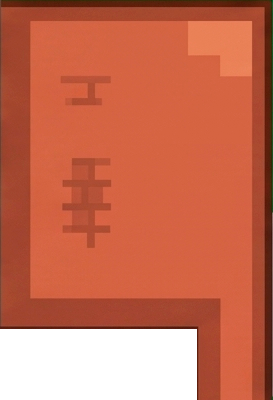
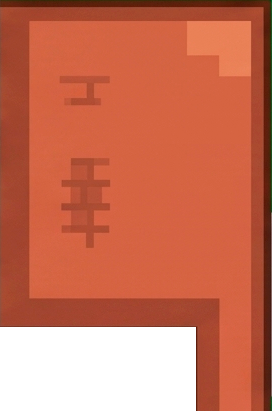
arrumando o teto-inicio

diff --git a/Estilo/jogo.css b/Estilo/jogo.css
@@ -1,39 +1,39 @@
 :root {
-    --bg: #071522;
-    --senac-blue: #004A8D;
-    --senac-blue-deep: #00284a;
-    --panel: rgba(0,32,58,0.88);
-    --panel-solid: #0b2036;
-    --panel-2: rgba(0,42,74,0.9);
-    --senac-orange: #F7941D;
-    --senac-orange-light: #FDC180;
-    --pixel-shadow: #00101c;
-    --text: #eef3f8;
-    --text-dim: #9fb8d1;
-    --font-pixel: 'Press Start 2P', monospace;
-    --font-body: 'Pixelify Sans', monospace;
+  --bg: #071522;
+  --senac-blue: #004a8d;
+  --senac-blue-deep: #00284a;
+  --panel: rgba(0, 32, 58, 0.88);
+  --panel-solid: #0b2036;
+  --panel-2: rgba(0, 42, 74, 0.9);
+  --senac-orange: #f7941d;
+  --senac-orange-light: #fdc180;
+  --pixel-shadow: #00101c;
+  --text: #eef3f8;
+  --text-dim: #9fb8d1;
+  --font-pixel: "Press Start 2P", monospace;
+  --font-body: "Pixelify Sans", monospace;
 }
 
 * {
-    margin: 0;
-    padding: 0;
-    box-sizing: border-box;
+  margin: 0;
+  padding: 0;
+  box-sizing: border-box;
 }
 
 body {
-    height: 100vh;
-    overflow-y: hidden;
+  height: 100vh;
+  overflow-y: hidden;
 }
 
 #fundo {
-    position: fixed;
-    top: 0;
-    left: 0;
-    width: 100%;
-    height: 100%;
-    object-fit: cover;
-    z-index: -1;
-    opacity: 0.9;
+  position: fixed;
+  top: 0;
+  left: 0;
+  width: 100%;
+  height: 100%;
+  object-fit: cover;
+  z-index: -1;
+  opacity: 0.9;
 }
 
 #carro {
@@ -43,7 +43,7 @@ body {
   top: 0;
   right: 33.5%;
   /* Caminho para a sua imagem */
-  
+
   background-repeat: no-repeat;
   background-size: 512px;
 
@@ -51,7 +51,6 @@ body {
   animation: animarSprite 1s steps(4) infinite,
     carroAndar 8s infinite ease-in-out;
   z-index: -1;
-  
 }
 
 #carro2 {
@@ -99,71 +98,70 @@ body {
   }
 }
 
-#teto-inicio{
+#teto-inicio {
   background: center/contain no-repeat url("../Imagem/cenario/teto-inicio.png");
   width: 190px;
   height: 400px;
   position: fixed;
-  top: 33%;
+  top: 33.4%;
   right: 1078px;
   opacity: 1;
-  
 }
 
 h1 {
-    font-size: 4em;
-    margin-block-start: 0.67em;
-    margin-block-end: 0.67em;
-    margin-inline-start: 0px;
-    margin-inline-end: 0px;
-    unicode-bidi: isolate;
-    font-family: var(--font-pixel);
-    color: var(--text);
-    text-shadow: 3px 5px 0px black;
+  font-size: 4em;
+  margin-block-start: 0.67em;
+  margin-block-end: 0.67em;
+  margin-inline-start: 0px;
+  margin-inline-end: 0px;
+  unicode-bidi: isolate;
+  font-family: var(--font-pixel);
+  color: var(--text);
+  text-shadow: 3px 5px 0px black;
 }
 
 .accent {
-    color: var(--senac-orange);
+  color: var(--senac-orange);
 }
 
 #titulo {
-    position: absolute;
-    top: 40px;
-    left: 50%;
-    transform: translateX(-50%);
-    z-index: 2;
-    transition: left 2s ease, opacity 2s ease;
+  position: absolute;
+  top: 40px;
+  left: 50%;
+  transform: translateX(-50%);
+  z-index: 2;
+  transition: left 2s ease, opacity 2s ease;
 }
 
 #titulo.titulo-sai {
-    left: -50%;
-    opacity: 0;
+  left: -50%;
+  opacity: 0;
 }
 
 #seta {
-    position: absolute;
-    left: 41.9%;
-    bottom: 39%;
-    transform: translateX(-50%);
-    width: 64px;
-    height: 64px;
-    image-rendering: pixelated;
-    animation: flutuar 1s ease-in-out infinite;
-    z-index: 2;
-    opacity: 0;
-    pointer-events: none;
+  position: absolute;
+  left: 41.9%;
+  bottom: 39%;
+  transform: translateX(-50%);
+  width: 64px;
+  height: 64px;
+  image-rendering: pixelated;
+  animation: flutuar 1s ease-in-out infinite;
+  z-index: 2;
+  opacity: 0;
+  pointer-events: none;
 }
 
 @keyframes flutuar {
-    0% {
-        transform: translateX(-50%) translateY(0);
-    }
+  0% {
+    transform: translateX(-50%) translateY(0);
+  }
 
-    50% {
-        transform: translateX(-50%) translateY(10px);
-    }
+  50% {
+    transform: translateX(-50%) translateY(10px);
+  }
 
-    100% {
-        transform: translateX(-50%) translateY(0);
-    }
+  100% {
+    transform: translateX(-50%) translateY(0);
+  }
 }
